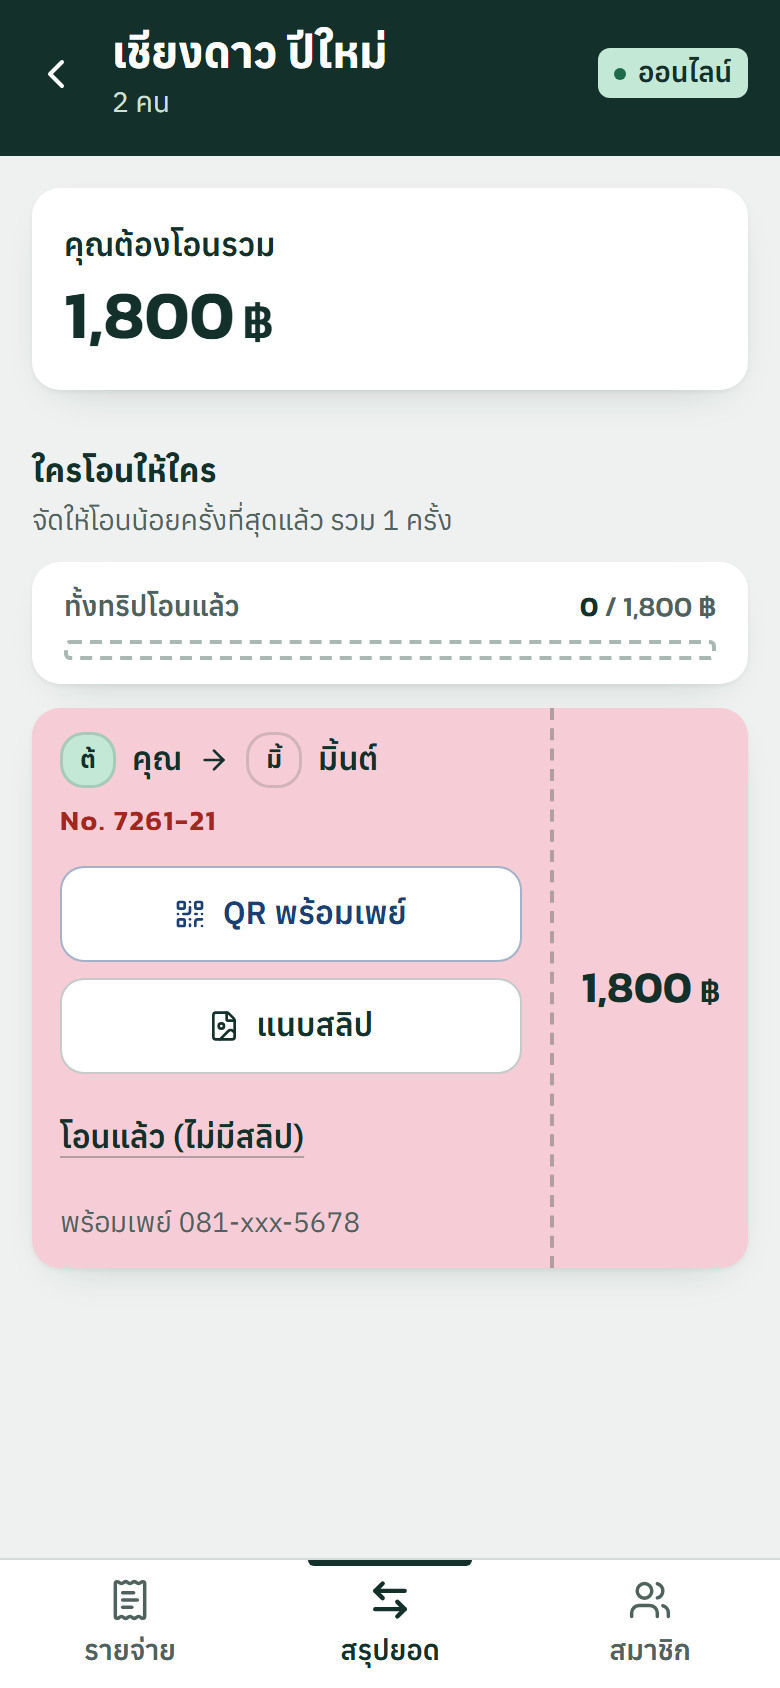
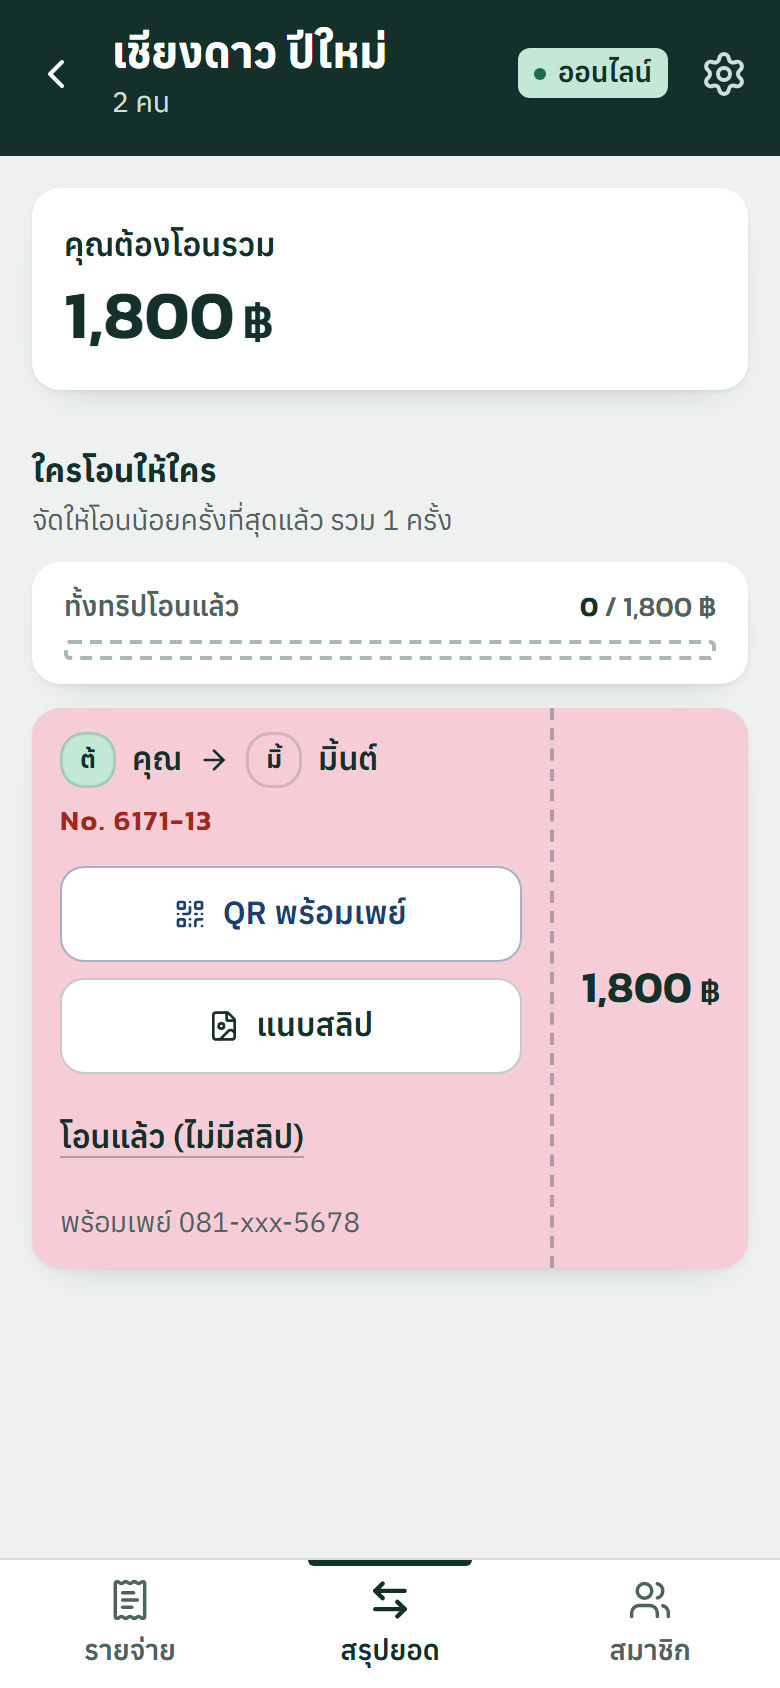
Settings link in the trip header

Changed region(s): [[0.6462, 0.0308, 0.9846, 0.0616], [0.1538, 0.4621, 0.2769, 0.4929]]

diff --git a/src/components/trip/trip-view.tsx b/src/components/trip/trip-view.tsx
@@ -1,6 +1,6 @@
 "use client";
 
-import { ArrowLeftRight, ChevronLeft, CloudOff, ReceiptText, Users, X } from "lucide-react";
+import { ArrowLeftRight, ChevronLeft, CloudOff, ReceiptText, Settings, Users, X } from "lucide-react";
 import Link from "next/link";
 import { useCallback, useMemo, useState, useSyncExternalStore } from "react";
 import { settlement } from "@/lib/trip/derive";
@@ -107,6 +107,9 @@ export function TripView({ tripId }: { tripId: string }) {
             </p>
           </div>
           <SyncStatus state={state} />
+          <Link href="/settings" className="-mr-3 grid size-12 shrink-0 place-items-center rounded-lg text-on-ink-muted hover:bg-white/10 hover:text-white" aria-label="ตั้งค่า" data-testid="settings-link">
+            <Settings className="size-6" aria-hidden />
+          </Link>
         </div>
         {wide && (
           <nav className="mx-auto mt-2 flex max-w-6xl gap-1 px-8" aria-label="ส่วนของทริป">

diff --git a/e2e/google.spec.ts b/e2e/google.spec.ts
@@ -58,7 +58,8 @@ test("defaults from settings fill a new trip; clearing the device signs out", as
   await page.getByRole("button", { name: /สมาชิก/ }).click();
   await expect(page.getByLabel("เบอร์มือถือหรือเลขพร้อมเพย์")).toHaveValue("0812345678");
 
-  await page.goto("/settings");
+  await page.getByTestId("settings-link").click(); // reachable from inside a trip too
+  await page.waitForURL(/\/settings$/);
   await page.getByRole("button", { name: "ลบข้อมูลและออกจากระบบ" }).click();
   await page.getByRole("button", { name: "ยืนยัน ลบและออกจากระบบ" }).click();
   await page.waitForURL((u) => u.pathname === "/");
